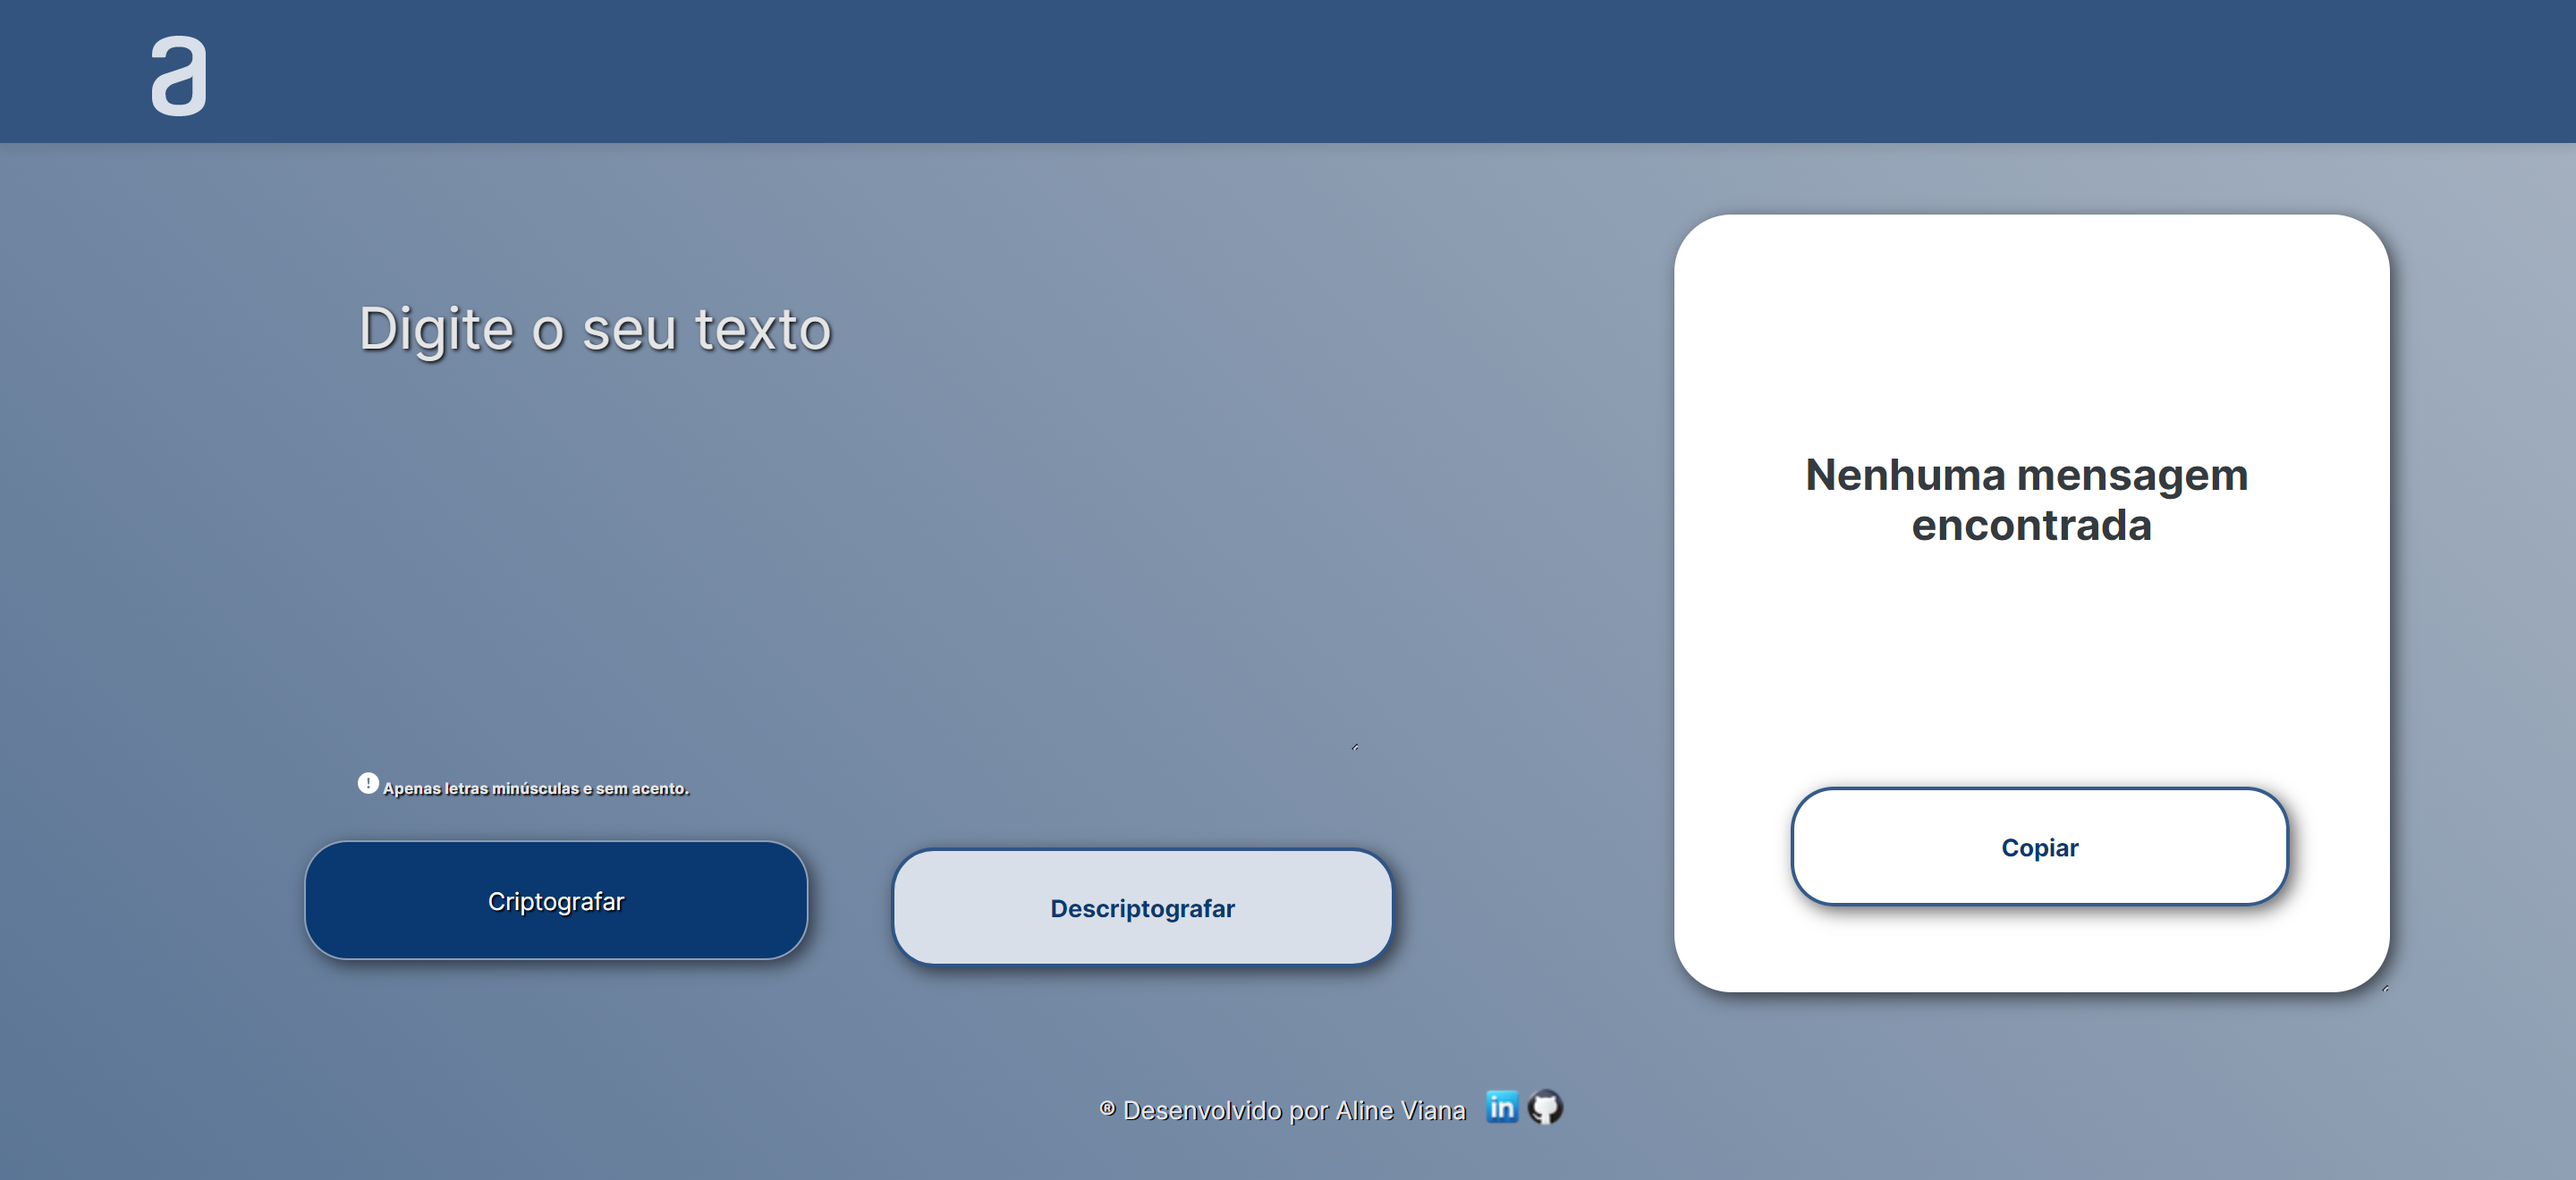
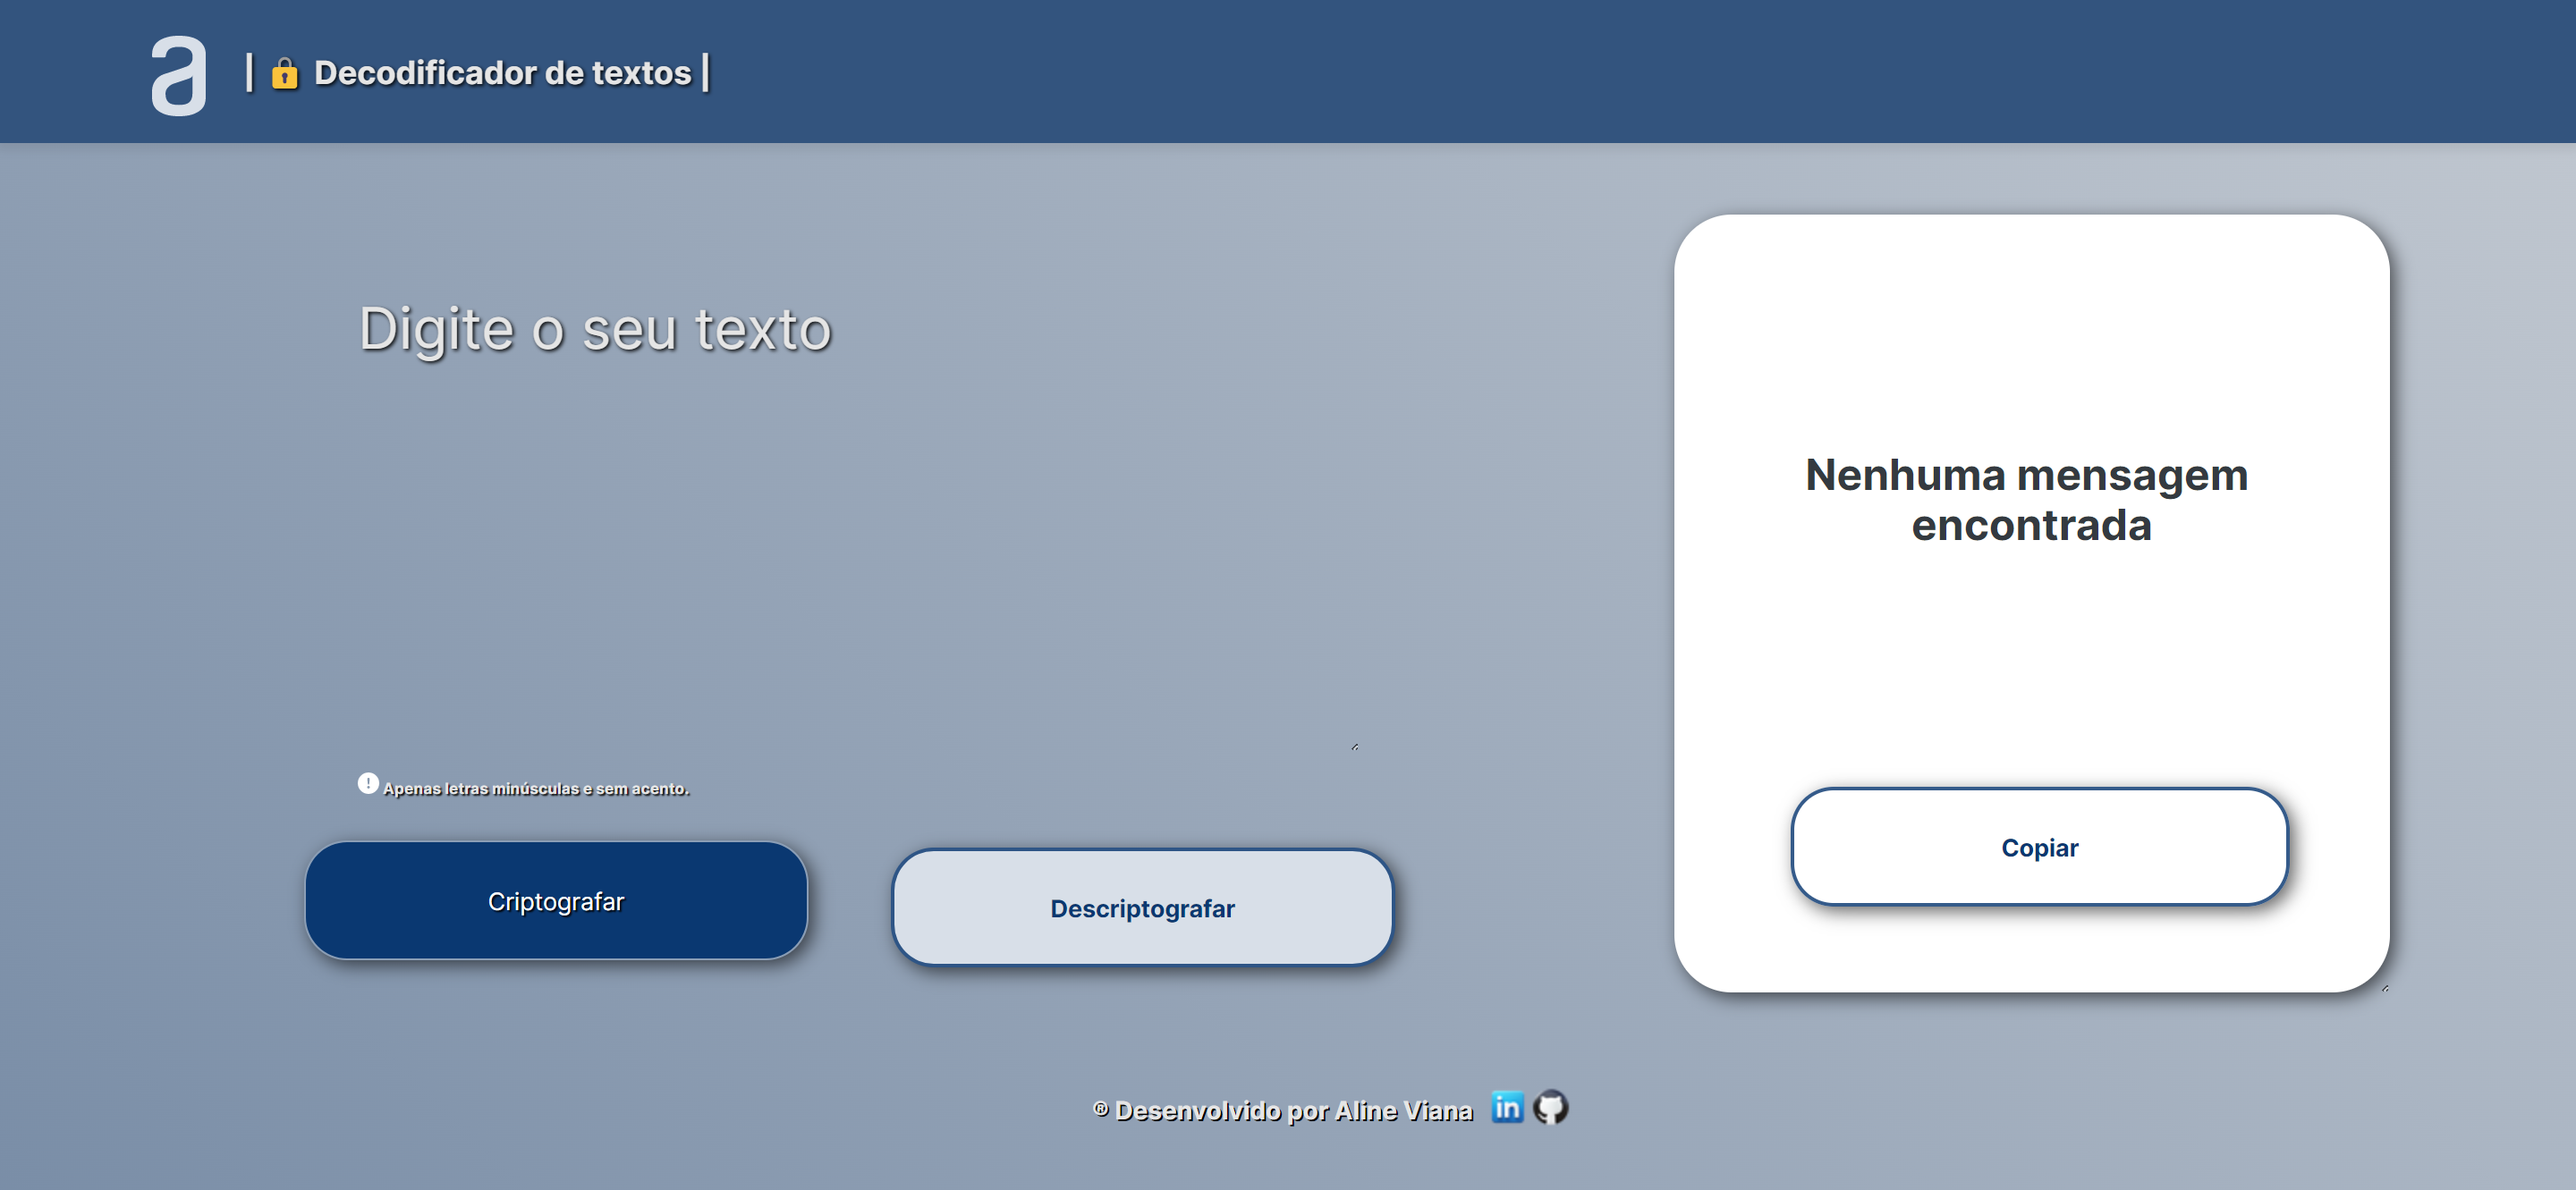
add title

diff --git a/style.css b/style.css
@@ -25,6 +25,7 @@ body, textarea, button {
 
 header {
     display: flex;
+    text-align: center;
     width: 100%;
     height: 8rem;
     
@@ -38,10 +39,17 @@ header {
 
 .logo {
     width: 3.2rem;
-    height: 4.8rem;
+    height: 4.2rem;
 
     margin-left: 1.6rem;
     padding-top: 0.5rem;
+}
+
+header h1 {
+    font-size: 1.8rem;
+    margin-left: 2rem;
+    align-items: center;
+    text-shadow: 1px 1px 2px black;
 }
 
 .text {
@@ -138,7 +146,7 @@ header {
     color: #0A3871;
 
     margin: 6.4rem 1.6rem 4rem 3rem;
-    padding: 1rem;
+    padding: 3.5rem 0.5rem 0.5rem 0.5rem;
 
     box-shadow: 0.3rem 0.3rem 1rem rgba(0, 0, 0, 0.6);
 }
@@ -195,7 +203,8 @@ footer p {
     display: flex;
     align-items: center;
     text-align: center;
-    text-shadow: 1px 0.5px black;
+    text-shadow: 1px 1px black;
+    font-weight: 700;
     margin-right: 0.8rem;
 }
 

diff --git a/index.html b/index.html
@@ -20,6 +20,7 @@
   <body>
     <header>
       <img class="logo" src="./assets/logo-alura.svg" alt="Logo da Alura" />
+      <h1>| 🔒 Decodificador de textos | </h1>
     </header>
 
     <main>
